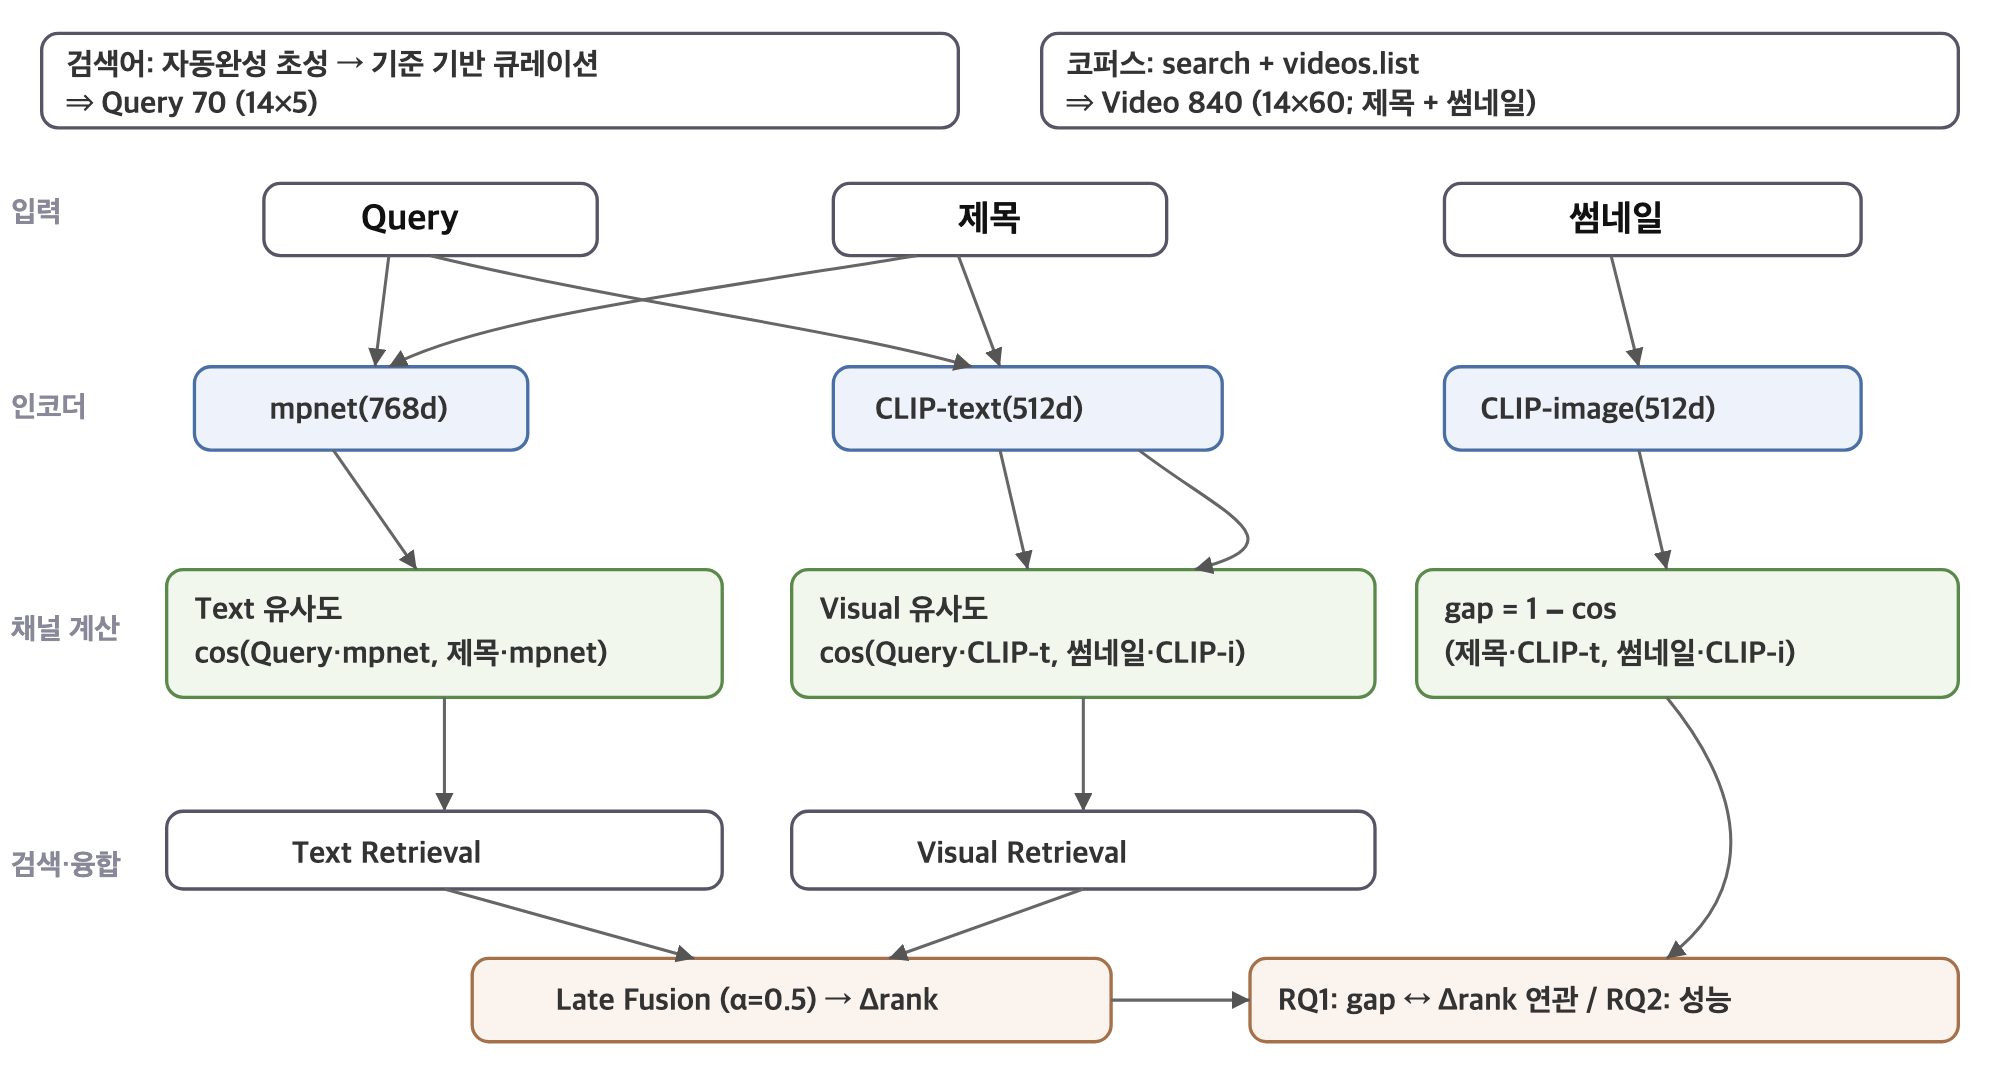
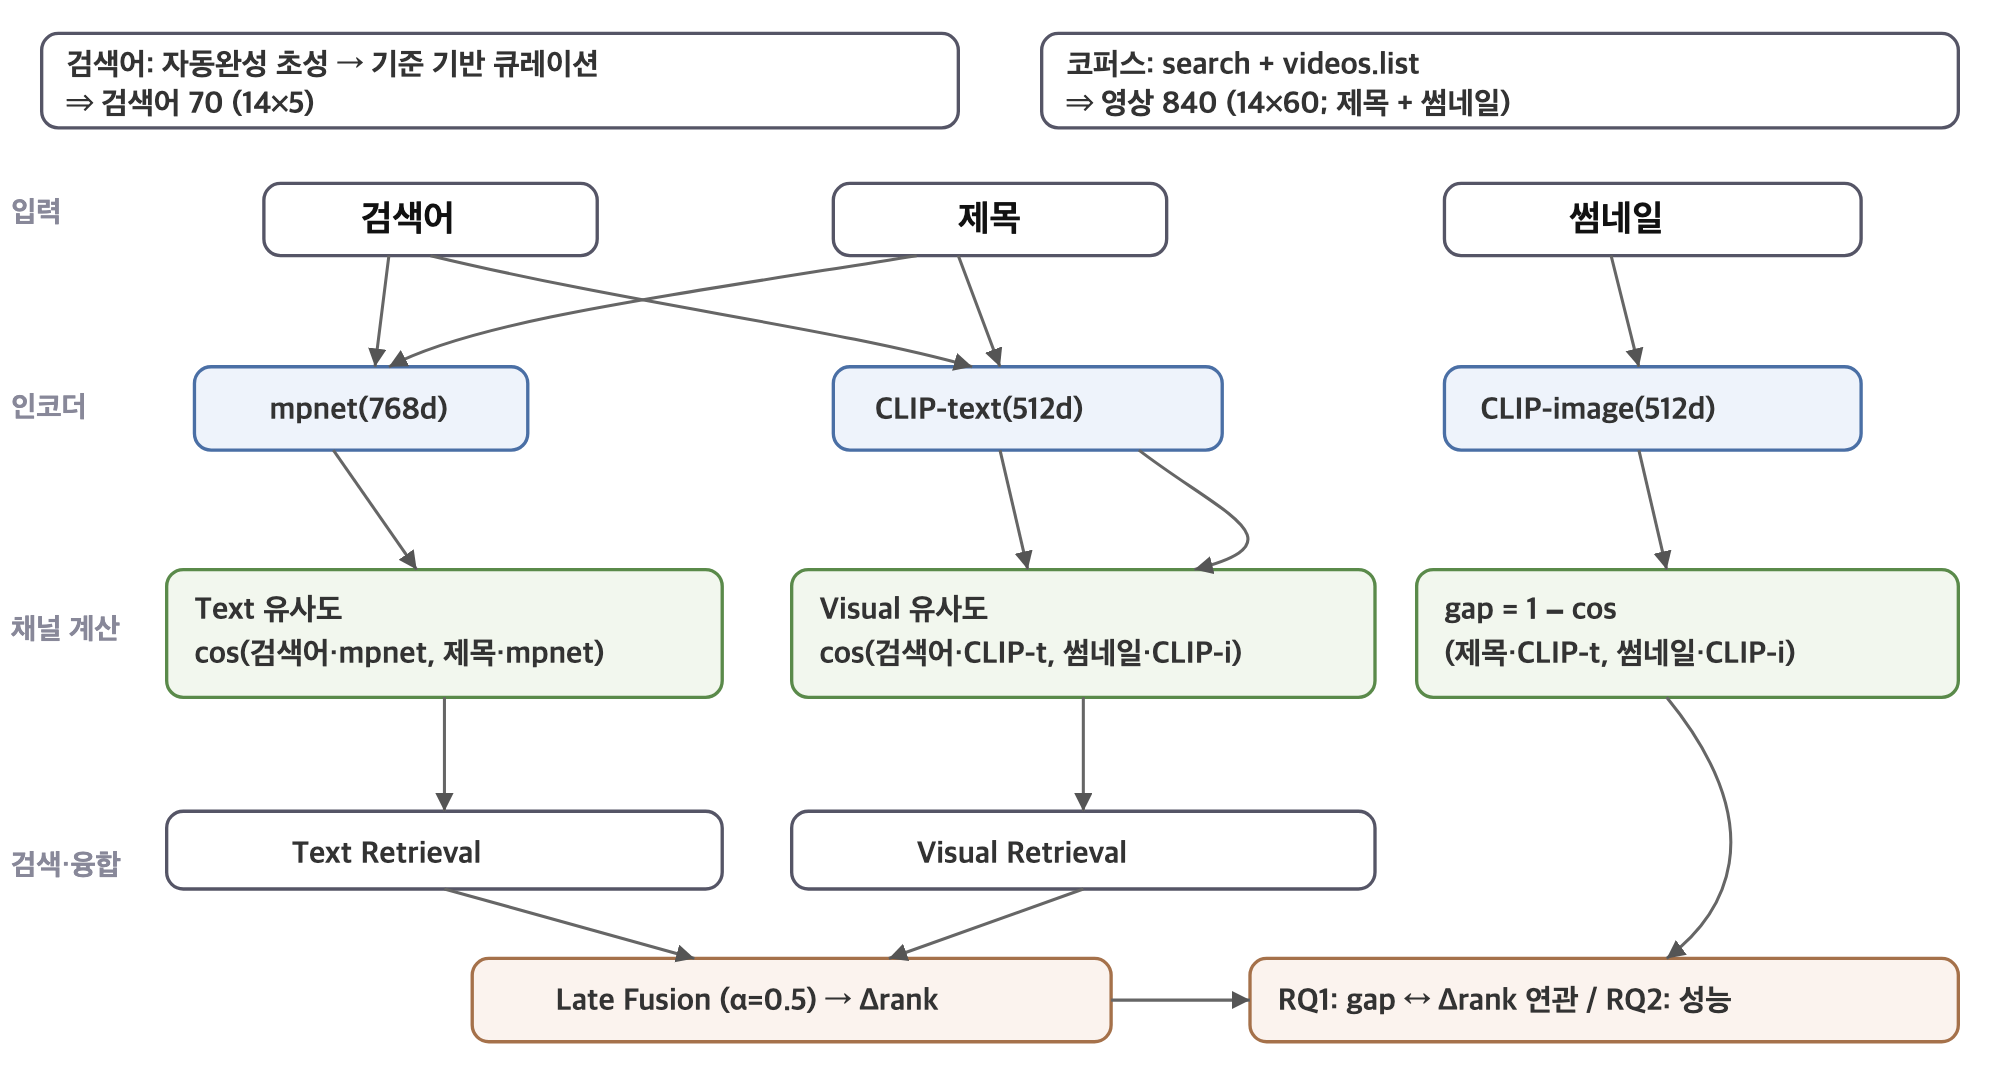
paper(P05): fig1 파이프라인·표2 용어 통일 (Query→검색어, Video→영상)
- fig1_pipeline.svg: 입력/코퍼스/수식 라벨 검색어·영상으로 통일, PNG 재렌더
- 표2 'Query–Video 평가 쌍' → '검색어–영상 평가 쌍'
- build_preview_html.py 내장 SVG 동일 통일
- HWP 붙여넣기 txt·preview HTML 재생성
- EN 제목/참고문헌의 Video/video-text는 영어 원문 유지

diff --git a/docs/research/P05_thumbnail_fusion/paper_KIICE_preview.html b/docs/research/P05_thumbnail_fusion/paper_KIICE_preview.html
@@ -105,13 +105,13 @@ line,path.e{stroke:#666;stroke-width:1.1;fill:none;marker-end:url(#ar)}
 <!-- 구성 -->
 <rect x="15" y="12" width="330" height="34" rx="6" class="b"/>
 <text x="24" y="27" class="s">검색어: 자동완성 초성 → 기준 기반 큐레이션</text>
-<text x="24" y="41" class="s">⇒ Query 70 (14×5)</text>
+<text x="24" y="41" class="s">⇒ 검색어 70 (14×5)</text>
 <rect x="375" y="12" width="330" height="34" rx="6" class="b"/>
 <text x="384" y="27" class="s">코퍼스: search + videos.list</text>
-<text x="384" y="41" class="s">⇒ Video 840 (14×60; 제목 + 썸네일)</text>
+<text x="384" y="41" class="s">⇒ 영상 840 (14×60; 제목 + 썸네일)</text>
 <!-- 입력 -->
 <text x="4" y="80" class="lay">입력</text>
-<rect x="95" y="66" width="120" height="26" rx="6" class="b"/><text x="130" y="83">Query</text>
+<rect x="95" y="66" width="120" height="26" rx="6" class="b"/><text x="130" y="83">검색어</text>
 <rect x="300" y="66" width="120" height="26" rx="6" class="b"/><text x="345" y="83">제목</text>
 <rect x="520" y="66" width="150" height="26" rx="6" class="b"/><text x="565" y="83">썸네일</text>
 <!-- 인코더 -->
@@ -128,9 +128,9 @@ line,path.e{stroke:#666;stroke-width:1.1;fill:none;marker-end:url(#ar)}
 <!-- 계산 -->
 <text x="4" y="230" class="lay">채널 계산</text>
 <rect x="60" y="205" width="200" height="46" rx="6" class="b cmp"/>
-<text x="70" y="223" class="s">Text 유사도</text><text x="70" y="239" class="s">cos(Query·mpnet, 제목·mpnet)</text>
+<text x="70" y="223" class="s">Text 유사도</text><text x="70" y="239" class="s">cos(검색어·mpnet, 제목·mpnet)</text>
 <rect x="285" y="205" width="210" height="46" rx="6" class="b cmp"/>
-<text x="295" y="223" class="s">Visual 유사도</text><text x="295" y="239" class="s">cos(Query·CLIP-t, 썸네일·CLIP-i)</text>
+<text x="295" y="223" class="s">Visual 유사도</text><text x="295" y="239" class="s">cos(검색어·CLIP-t, 썸네일·CLIP-i)</text>
 <rect x="510" y="205" width="195" height="46" rx="6" class="b cmp"/>
 <text x="520" y="223" class="s">gap = 1 − cos</text><text x="520" y="239" class="s">(제목·CLIP-t, 썸네일·CLIP-i)</text>
 <!-- 인코더→계산 -->
@@ -180,7 +180,7 @@ line,path.e{stroke:#666;stroke-width:1.1;fill:none;marker-end:url(#ar)}
 <h2 class="sec">Ⅳ. 실험 설계</h2>
 <p>설계는 실험 전 사전 등록(pre-registration)으로 고정하였다. 실험 데이터 구성은 표 2와 같으며, 핵심만 요약한다.</p>
 <p class="caption"><strong>표 2. 실험 데이터 구성</strong></p>
-<div class="tblbox"><table><thead><tr><th>구분</th><th>값</th></tr></thead><tbody><tr><td>영상 카테고리</td><td>14</td></tr><tr><td>검색 영상 코퍼스</td><td>840 (14 × 60)</td></tr><tr><td>평가 검색어</td><td>70 (14 × 5)</td></tr><tr><td>검색어당 pooling 후보(평균)</td><td>23.0</td></tr><tr><td>Query–Video 평가 쌍</td><td>1,607</td></tr><tr><td>평가자</td><td>3인 (blind·독립)</td></tr><tr><td>Short 영상 비율</td><td>12.5%</td></tr></tbody></table></div>
+<div class="tblbox"><table><thead><tr><th>구분</th><th>값</th></tr></thead><tbody><tr><td>영상 카테고리</td><td>14</td></tr><tr><td>검색 영상 코퍼스</td><td>840 (14 × 60)</td></tr><tr><td>평가 검색어</td><td>70 (14 × 5)</td></tr><tr><td>검색어당 pooling 후보(평균)</td><td>23.0</td></tr><tr><td>검색어–영상 평가 쌍</td><td>1,607</td></tr><tr><td>평가자</td><td>3인 (blind·독립)</td></tr><tr><td>Short 영상 비율</td><td>12.5%</td></tr></tbody></table></div>
 <h3>4.1 평가 코퍼스</h3>
 <p>YouTube KR <code>assignable</code> 카테고리 <strong>14개</strong>를 주제 다양성 확보용 층화 틀로 사용해 <strong>카테고리당 60편 × 14 = 840편</strong>을 수집하였다. categoryId는 <strong>표집 기준일 뿐 의미적 정답 레이블이 아니며</strong>, 본 연구의 어느 분석에서도 레이블로 쓰지 않는다. 카테고리당 복수 seed로 <code>search</code> 수집 후 <code>videos.list</code>의 categoryId로 필터링했으며(relevance · viewCount · date 세 정렬 혼합·채널당 최대 5편·60초 초과·2025-01-01 이후), 이는 확률표본이 아니라 <strong>gap 분산 확보용 카테고리 층화표본</strong>이다. 코퍼스의 Short <strong>12.5%</strong>에 대해서는 non-Shorts 부분표본 민감도 분석으로 영향을 확인하였다(§5.2).</p>
 <h3>4.2 평가 검색어</h3>

diff --git a/docs/research/P05_thumbnail_fusion/code/build_preview_html.py b/docs/research/P05_thumbnail_fusion/code/build_preview_html.py
@@ -162,13 +162,13 @@ line,path.e{stroke:#666;stroke-width:1.1;fill:none;marker-end:url(#ar)}
 <!-- 구성 -->
 <rect x="15" y="12" width="330" height="34" rx="6" class="b"/>
 <text x="24" y="27" class="s">검색어: 자동완성 초성 → 기준 기반 큐레이션</text>
-<text x="24" y="41" class="s">⇒ Query 70 (14×5)</text>
+<text x="24" y="41" class="s">⇒ 검색어 70 (14×5)</text>
 <rect x="375" y="12" width="330" height="34" rx="6" class="b"/>
 <text x="384" y="27" class="s">코퍼스: search + videos.list</text>
-<text x="384" y="41" class="s">⇒ Video 840 (14×60; 제목 + 썸네일)</text>
+<text x="384" y="41" class="s">⇒ 영상 840 (14×60; 제목 + 썸네일)</text>
 <!-- 입력 -->
 <text x="4" y="80" class="lay">입력</text>
-<rect x="95" y="66" width="120" height="26" rx="6" class="b"/><text x="130" y="83">Query</text>
+<rect x="95" y="66" width="120" height="26" rx="6" class="b"/><text x="130" y="83">검색어</text>
 <rect x="300" y="66" width="120" height="26" rx="6" class="b"/><text x="345" y="83">제목</text>
 <rect x="520" y="66" width="150" height="26" rx="6" class="b"/><text x="565" y="83">썸네일</text>
 <!-- 인코더 -->
@@ -185,9 +185,9 @@ line,path.e{stroke:#666;stroke-width:1.1;fill:none;marker-end:url(#ar)}
 <!-- 계산 -->
 <text x="4" y="230" class="lay">채널 계산</text>
 <rect x="60" y="205" width="200" height="46" rx="6" class="b cmp"/>
-<text x="70" y="223" class="s">Text 유사도</text><text x="70" y="239" class="s">cos(Query·mpnet, 제목·mpnet)</text>
+<text x="70" y="223" class="s">Text 유사도</text><text x="70" y="239" class="s">cos(검색어·mpnet, 제목·mpnet)</text>
 <rect x="285" y="205" width="210" height="46" rx="6" class="b cmp"/>
-<text x="295" y="223" class="s">Visual 유사도</text><text x="295" y="239" class="s">cos(Query·CLIP-t, 썸네일·CLIP-i)</text>
+<text x="295" y="223" class="s">Visual 유사도</text><text x="295" y="239" class="s">cos(검색어·CLIP-t, 썸네일·CLIP-i)</text>
 <rect x="510" y="205" width="195" height="46" rx="6" class="b cmp"/>
 <text x="520" y="223" class="s">gap = 1 − cos</text><text x="520" y="239" class="s">(제목·CLIP-t, 썸네일·CLIP-i)</text>
 <!-- 인코더→계산 -->
